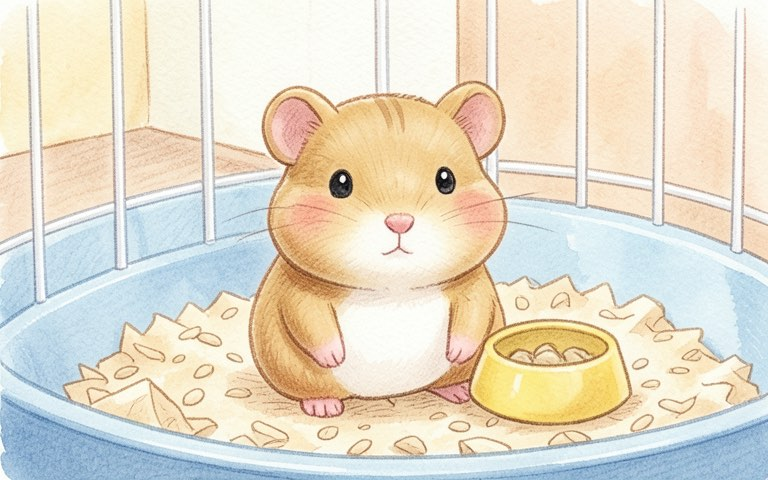
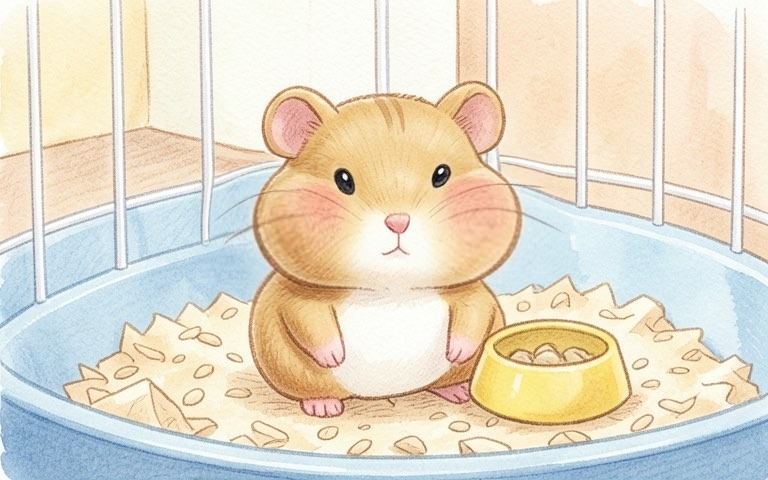
My Hamster: puffier cheeks on p14, sleepy hamster inside the cage on p18

Changed region(s): [[0.5, 0.3125, 0.75, 0.6562], [0.25, 0.3125, 0.4688, 0.6562]]

diff --git a/server/scripts/pregen-img.js b/server/scripts/pregen-img.js
@@ -598,7 +598,7 @@ const SCENES = {
   '45-0': ['', "one seagull nest made of twigs and dry grass with three speckled eggs inside, on a rock by the sea, waves in the background, no bird"], '45-1': ['', 'one cute smiling orange octopus on the wet sand by the water'], '45-3': ['', "one small red crab running fast sideways across the sand with little sand puffs and motion lines behind it, only one crab"], '45-4': ['', 'one big smooth gray rock on the sand'], '45-5': ['', 'one big pretty spiral seashell on the sand'], '45-8': ['', "one white and blue volleyball lying on the sand in front of a beach volleyball net"], '45-9': ['', 'one big blue ocean wave curling toward the beach'], '45-10': ['', 'one plain wooden box on the sand, nothing written on it'], '45-11': ['', 'one white sailing yacht with a big sail on the blue sea'], '45-12': ['', 'one long zigzag line drawn with a stick in the wet sand'],
   '45-13': ['5-year-old|dad', 'the boy and his dad walk hand in hand toward the sea'], '45-14': ['5-year-old', 'the boy kneels on the sand and holds up one big spiral seashell in both hands'], '45-15': ['5-year-old', 'the boy stands at the edge of the water and spreads his arms wide with joy, seen from the front'],
   '46-0': ['Tim', 'Tim holds one big round bread bun in both hands'], '46-1': ['Tim', 'Tim holds up one small glass jar of red jam'], '46-2': ['Tim', 'Tim spreads red jam on the big round bun with a spoon at a small table'], '46-3': ['Tim', 'Tim sits on the soft green rug holding the bun with jam'], '46-4': ['Tim|dog', "the light brown dog runs fast across the room toward Tim, who sits on the green rug holding one round bread bun with red jam on top in his hand"], '46-5': ['dog', 'the light brown puppy stands on the floor, its short fur wet and shiny with water drops dripping off, a small puddle under it'], '46-6': ['dog', 'the wet light brown puppy wags its tail fast, happy, with motion lines by the tail and little water drops flying'], '46-7': ['Tim|dog', "the dog looks up at the bun in Tim's hand with its tongue out, Tim holds one round bread bun with shiny red jam on top high above his head"], '46-8': ['Tim', "Tim runs across the room holding one round bread bun with shiny red jam on top high in one hand"], '46-9': ['Tim|dog', "the dog runs after Tim across the room, Tim runs ahead holding one round bread bun with shiny red jam on top in one hand"], '46-10': ['Tim|jam on top', "Tim trips on the edge of the green rug and falls forward onto his hands and knees, surprised, the round bread bun with red jam on top flies out of his hand"], '46-11': ['Tim|jam on top', "Tim is falling forward onto the rug and reaches out with both hands to catch the round bread bun with red jam on top, but he misses: the bun flies away past his fingertips into the air, out of his reach, he looks surprised"], '46-12': ['Tim|dog', "seen from the side, the light brown dog stands on its four legs on the rug and looks back in surprise, one small round bread bun is stuck upside down on the middle of the dog's back, between its neck and its tail, with red jam squishing out, nothing in the dog's mouth, nothing on its head, Tim sits on the rug behind it with his mouth open in an oh-no face and his hands on his cheeks, only one dog, only one boy"], '46-13': ['dog|jam on top', "seen from the side, the light brown dog stands on its four legs and turns its head to look back at the round bread bun with red jam stuck on its back, red jam smeared on its fur, the dog looks puzzled with its ears down, only one dog in the whole picture"], '46-14': ['Tim', 'Tim sits on the rug and grins a big happy grin'], '46-15': ['Tim|dog', 'Tim kneels on the rug and hugs the small wet light brown dog with jam on its back, both smile, only one boy and one dog'],
-  '47-0': ["6-year-old girl|Peanut|the bedroom:", "the girl stands alone in her bedroom and holds out her two open hands toward us, exactly one tiny golden brown hamster sits on her palms, she smiles proudly. Only one child, exactly one hamster in the whole picture"], '47-1': ["Peanut|the bedroom:", "seen from a little far away, Peanut the tiny golden brown hamster sits on the white desk next to one long yellow pencil, the pencil is twice as long as the hamster, a small paper tag shaped like a peanut lies beside him. No people, only one hamster"], '47-2': ["Peanut", "a close look: Peanut the tiny golden brown hamster sits on the white desk next to one long yellow pencil that is twice as long as his whole body; he holds one small black and white striped sunflower seed in his pink paws and nibbles it. No flowers. No people, only one hamster"], '47-3': ["6-year-old girl|Peanut", "the girl smiles and holds the tiny hamster on her open palm close to her face, his two small round pink-lined ears are easy to see. Only one child, only one hamster"], '47-4': ["Peanut", "a very close look at Peanut the tiny golden brown hamster's face, filling the picture: his two shiny round black bead eyes sparkle with little white highlights, pink nose and white whiskers, soft fur. Nothing else in the picture. Only one hamster"], '47-5': ["cage:|Peanut", "the dome-topped white wire hamster cage with a light blue plastic base stands on the white desk; everything is inside the cage on its blue floor: the tiny hamster, the small red plastic running wheel, the tiny wooden hut with a round door, the water bottle on the bars and the small yellow food bowl; nothing at all next to the cage, only one hamster"], '47-6': ["6-year-old girl|cage:|the bedroom:", "exactly one girl stands next to the white desk and spreads her arms wide beside the dome-topped white wire hamster cage with a light blue base to show how big it is; inside the cage are the small red running wheel, the tiny wooden hut and the tiny hamster. She is the only person in the whole picture, nobody else"], '47-7': ["cage:", "a close look into the dome-topped white wire hamster cage through its white bars: on its light blue floor the small red plastic running wheel stands empty, and the tiny wooden hut with a round door sits behind it. No hamster in this picture, no people"], '47-8': ["Peanut", "a big close-up taken from inside the hamster cage, low at the hamster's eye level on the light blue plastic cage floor covered with pale wood shavings; the hamster is big in the picture; only a few thin white wire bars show softly far behind him, there are no bars in front of him and we cannot see the outside of the cage: the red plastic running wheel, an open round wheel twice as tall as the hamster, stands upright on its stand; the tiny hamster is inside the wheel, running on the inner curved track with his little feet, the wheel turning under him, small curved motion lines along its rim. Only one hamster, only one wheel"], '47-9': ["Peanut", "a big close-up taken from inside the hamster cage, low at the hamster's eye level on the light blue plastic cage floor covered with pale wood shavings; the hamster is big in the picture; only a few thin white wire bars show softly far behind him, there are no bars in front of him and we cannot see the outside of the cage: the tiny hamster runs very fast inside the red running wheel, an open round wheel twice as tall as him; the wheel spins fast with blurred spokes and curved motion lines all around its rim, a little sweat drop flies off his head. Only one hamster, only one wheel"], '47-10': ["Peanut", "a big close-up taken from inside the hamster cage, low at the hamster's eye level on the light blue plastic cage floor covered with pale wood shavings; the hamster is big in the picture; only a few thin white wire bars show softly far behind him, there are no bars in front of him and we cannot see the outside of the cage: the tiny hamster sits next to a small empty yellow food bowl and looks into it with a sad hungry face, his paws on his round tummy. Only one hamster"], '47-11': ["Peanut", "a big close-up taken from inside the hamster cage, low at the hamster's eye level on the light blue plastic cage floor covered with pale wood shavings; the hamster is big in the picture; only a few thin white wire bars show softly far behind him, there are no bars in front of him and we cannot see the outside of the cage: the tiny hamster sits next to a small yellow food bowl full of black and white striped sunflower seeds and nibbles one striped seed held in his front paws, happy. No flowers. Only one hamster"], '47-12': ["Peanut", "a big close-up taken from inside the hamster cage, low at the hamster's eye level on the light blue plastic cage floor covered with pale wood shavings; the hamster is big in the picture; only a few thin white wire bars show softly far behind him, there are no bars in front of him and we cannot see the outside of the cage: the tiny hamster sits by a small yellow food bowl of striped sunflower seeds and stuffs a seed into his cheek with both front paws, one cheek already bulging. Only one hamster"], '47-13': ["Peanut", "a big close-up taken from inside the hamster cage, low at the hamster's eye level on the light blue plastic cage floor covered with pale wood shavings; the hamster is big in the picture; only a few thin white wire bars show softly far behind him, there are no bars in front of him and we cannot see the outside of the cage: the tiny hamster sits facing us with very fat puffy round cheeks full of seeds, wider than his head, a small yellow food bowl beside him. Only one hamster"], '47-14': ["Peanut", "a big close-up taken from inside the hamster cage, low at the hamster's eye level on the light blue plastic cage floor covered with pale wood shavings; the hamster is big in the picture; only a few thin white wire bars show softly far behind him, there are no bars in front of him and we cannot see the outside of the cage: the tiny hamster with very big puffy round cheeks stands up on his back legs and does a funny little dance with his front paws up, small happy music notes around him. Only one hamster"], '47-15': ["6-year-old girl|Peanut|the bedroom:", "the girl sits on her bed and gently holds the tiny hamster in her two cupped hands in front of her, smiling down at him. Only one child, only one hamster"], '47-16': ["6-year-old girl|Peanut", "the girl holds the tiny hamster in her cupped hands close to her cheek, her eyes closed, happy, the hamster is smaller than her hand, soft warm glow around them. Only one child, only one hamster"], '47-17': ["cage:|Peanut", "inside the dome-topped white wire hamster cage, the tiny hamster sits next to the small red wheel and yawns a big yawn with half-closed sleepy eyes, the room is getting dark. Only one hamster"], '47-18': ["cage:|Peanut", "a close look through the white bars into the cage: the tiny wooden hut with a round door sits on the light blue floor, and the tiny hamster sleeps curled up just inside its round door, eyes closed, a little Z above him; the small red running wheel stands next to the hut. Only one hamster"], '47-19': ["6-year-old girl|cage:|the bedroom:", "at night in the bedroom with moonlight from the window and a small lamp on, the girl in lavender pajamas waves good night to the dome-topped white wire hamster cage on the white desk, smiling sleepily. Only one child"],
+  '47-0': ["6-year-old girl|Peanut|the bedroom:", "the girl stands alone in her bedroom and holds out her two open hands toward us, exactly one tiny golden brown hamster sits on her palms, she smiles proudly. Only one child, exactly one hamster in the whole picture"], '47-1': ["Peanut|the bedroom:", "seen from a little far away, Peanut the tiny golden brown hamster sits on the white desk next to one long yellow pencil, the pencil is twice as long as the hamster, a small paper tag shaped like a peanut lies beside him. No people, only one hamster"], '47-2': ["Peanut", "a close look: Peanut the tiny golden brown hamster sits on the white desk next to one long yellow pencil that is twice as long as his whole body; he holds one small black and white striped sunflower seed in his pink paws and nibbles it. No flowers. No people, only one hamster"], '47-3': ["6-year-old girl|Peanut", "the girl smiles and holds the tiny hamster on her open palm close to her face, his two small round pink-lined ears are easy to see. Only one child, only one hamster"], '47-4': ["Peanut", "a very close look at Peanut the tiny golden brown hamster's face, filling the picture: his two shiny round black bead eyes sparkle with little white highlights, pink nose and white whiskers, soft fur. Nothing else in the picture. Only one hamster"], '47-5': ["cage:|Peanut", "the dome-topped white wire hamster cage with a light blue plastic base stands on the white desk; everything is inside the cage on its blue floor: the tiny hamster, the small red plastic running wheel, the tiny wooden hut with a round door, the water bottle on the bars and the small yellow food bowl; nothing at all next to the cage, only one hamster"], '47-6': ["6-year-old girl|cage:|the bedroom:", "exactly one girl stands next to the white desk and spreads her arms wide beside the dome-topped white wire hamster cage with a light blue base to show how big it is; inside the cage are the small red running wheel, the tiny wooden hut and the tiny hamster. She is the only person in the whole picture, nobody else"], '47-7': ["cage:", "a close look into the dome-topped white wire hamster cage through its white bars: on its light blue floor the small red plastic running wheel stands empty, and the tiny wooden hut with a round door sits behind it. No hamster in this picture, no people"], '47-8': ["Peanut", "a big close-up taken from inside the hamster cage, low at the hamster's eye level on the light blue plastic cage floor covered with pale wood shavings; the hamster is big in the picture; only a few thin white wire bars show softly far behind him, there are no bars in front of him and we cannot see the outside of the cage: the red plastic running wheel, an open round wheel twice as tall as the hamster, stands upright on its stand; the tiny hamster is inside the wheel, running on the inner curved track with his little feet, the wheel turning under him, small curved motion lines along its rim. Only one hamster, only one wheel"], '47-9': ["Peanut", "a big close-up taken from inside the hamster cage, low at the hamster's eye level on the light blue plastic cage floor covered with pale wood shavings; the hamster is big in the picture; only a few thin white wire bars show softly far behind him, there are no bars in front of him and we cannot see the outside of the cage: the tiny hamster runs very fast inside the red running wheel, an open round wheel twice as tall as him; the wheel spins fast with blurred spokes and curved motion lines all around its rim, a little sweat drop flies off his head. Only one hamster, only one wheel"], '47-10': ["Peanut", "a big close-up taken from inside the hamster cage, low at the hamster's eye level on the light blue plastic cage floor covered with pale wood shavings; the hamster is big in the picture; only a few thin white wire bars show softly far behind him, there are no bars in front of him and we cannot see the outside of the cage: the tiny hamster sits next to a small empty yellow food bowl and looks into it with a sad hungry face, his paws on his round tummy. Only one hamster"], '47-11': ["Peanut", "a big close-up taken from inside the hamster cage, low at the hamster's eye level on the light blue plastic cage floor covered with pale wood shavings; the hamster is big in the picture; only a few thin white wire bars show softly far behind him, there are no bars in front of him and we cannot see the outside of the cage: the tiny hamster sits next to a small yellow food bowl full of black and white striped sunflower seeds and nibbles one striped seed held in his front paws, happy. No flowers. Only one hamster"], '47-12': ["Peanut", "a big close-up taken from inside the hamster cage, low at the hamster's eye level on the light blue plastic cage floor covered with pale wood shavings; the hamster is big in the picture; only a few thin white wire bars show softly far behind him, there are no bars in front of him and we cannot see the outside of the cage: the tiny hamster sits by a small yellow food bowl of striped sunflower seeds and stuffs a seed into his cheek with both front paws, one cheek already bulging. Only one hamster"], '47-13': ["Peanut", "a big close-up taken from inside the hamster cage, low at the hamster's eye level on the light blue plastic cage floor covered with pale wood shavings; the hamster is big in the picture; only a few thin white wire bars show softly far behind him, there are no bars in front of him and we cannot see the outside of the cage: the tiny hamster sits facing us with very fat puffy round cheeks full of seeds, wider than his head, a small yellow food bowl beside him. Only one hamster"], '47-14': ["Peanut", "a big close-up taken from inside the hamster cage, low at the hamster's eye level on the light blue plastic cage floor covered with pale wood shavings; the hamster is big in the picture; only a few thin white wire bars show softly far behind him, there are no bars in front of him and we cannot see the outside of the cage: the tiny hamster with very big puffy round cheeks stands up on his back legs and does a funny little dance with his front paws up, small happy music notes around him. Only one hamster"], '47-15': ["6-year-old girl|Peanut|the bedroom:", "the girl sits on her bed and gently holds the tiny hamster in her two cupped hands in front of her, smiling down at him. Only one child, only one hamster"], '47-16': ["6-year-old girl|Peanut", "the girl holds the tiny hamster in her cupped hands close to her cheek, her eyes closed, happy, the hamster is smaller than her hand, soft warm glow around them. Only one child, only one hamster"], '47-17': ["Peanut","a big close-up taken from inside the hamster cage, low at the hamster's eye level on the light blue plastic cage floor covered with pale wood shavings; the hamster is big in the picture; only a few thin white wire bars show softly far behind him, there are no bars in front of him and we cannot see the outside of the cage: the tiny hamster sits on the wood shavings looking very sleepy, his eyes half closed and drooping, giving a big yawn with his little mouth wide open and one front paw rubbing his eye, his body slumping a little; the small wooden hut with a round door is right behind him; soft warm evening light. Only one hamster"], '47-18': ["cage:|Peanut", "a close look through the white bars into the cage: the tiny wooden hut with a round door sits on the light blue floor, and the tiny hamster sleeps curled up just inside its round door, eyes closed, a little Z above him; the small red running wheel stands next to the hut. Only one hamster"], '47-19': ["6-year-old girl|cage:|the bedroom:", "at night in the bedroom with moonlight from the window and a small lamp on, the girl in lavender pajamas waves good night to the dome-topped white wire hamster cage on the white desk, smiling sleepily. Only one child"],
   '48-0': ["7-year-old boy|the bedroom:","a wide view of the whole bedroom from the doorway, showing the mess in the room: a brown teddy bear, six colorful wooden blocks, a yellow toy truck and a green toy dinosaur lie on the floor in the middle, a pile of five picture books lies on the blue blanket of the bed, one red sock and one blue sock lie under the desk, the toy box and the bookshelf are still empty. The boy stands in the middle among the toys and scratches his head, embarrassed. Only one child"], '48-1': ["the bedroom:","a low close look at the middle of the bedroom floor: a brown teddy bear, six colorful wooden blocks, a yellow toy truck and a green toy dinosaur scattered on the light wooden floor; behind them the white open-top toy box with car pictures stands empty in front of the bookshelf. No people"], '48-2': ["the bedroom:","a close look at the bed along the left wall: a messy pile of five colorful picture books lies on the blue blanket, two of them open; the empty white bookshelf is far in the background. No people"], '48-3': ["the bedroom:","a low close look at the wooden desk under the window and its red-cushioned chair: on the floor right under the desk, between the four desk legs, lie one crumpled red sock and one crumpled blue sock, in the shadow of the desk. Only these two socks, nothing else on the floor. No people"], '48-4': ["7-year-old boy|his mom|the bedroom:","the wooden door on the right is open and his tall mom stands in the doorway with her hands on her hips, frowning at the mess; the mess in the room: a brown teddy bear, six colorful wooden blocks, a yellow toy truck and a green toy dinosaur lie on the floor in the middle, a pile of five picture books lies on the blue blanket of the bed, one red sock and one blue sock lie under the desk, the toy box and the bookshelf are still empty. The boy stands among the toys on the floor and looks down. Only two people, only one mom"], '48-5': ["7-year-old boy|his mom|the bedroom:","his tall mom stands just inside the open door and points with one finger at the toys on the floor while she talks; the boy stands in front of her among the toys and looks up, listening. The toys still lie on the floor and the books are still on the bed. Only two people, only one mom"], '48-6': ["7-year-old boy|his mom|the bedroom:","the boy smiles, nods and gives a thumbs-up to his mom, who smiles back from the open doorway; the toys still lie on the floor around him and the five books are still on the bed. Only two people, only one mom"], '48-7': ["7-year-old boy|the bedroom:","the boy bends down in the middle of the floor and picks up the brown teddy bear and two wooden blocks with both hands; the yellow toy truck, the green toy dinosaur and the other blocks still lie on the floor, the books are still on the bed. Only one child"], '48-8': ["7-year-old boy|the bedroom:","the one white open-top toy box with car pictures stays in its place on the floor in front of the low white bookshelf on the right; the boy stands right next to it and drops the teddy bear, the blocks, the yellow truck and the green dinosaur into it, the box is full of toys; the middle of the floor is clear now, the five books are still on the bed. Only one toy box in the room. Only one child"], '48-9': ["7-year-old boy|the bedroom:","the boy stands at the low white bookshelf on the right and puts the picture books on its shelf in a neat row, three books already stand on the shelf and two are in his hands; the bed is empty of books now, the toy box is full of toys, the floor is clear. Only one child"], '48-10': ["7-year-old boy|the bedroom:","the boy kneels on the floor in front of the desk below the window, reaches under the desk and holds up one red sock he just found; the blue sock still lies under the desk. The rest of the room is tidy. Only one child"], '48-11': ["7-year-old boy|the bedroom:","the boy still kneels in front of the desk, holding the red sock in one hand, and pulls out the blue sock from under the desk with his other hand. Only one child"], '48-12': ["7-year-old boy|the bedroom:","one single boy sits alone on the floor by the desk and holds a red sock in one hand and a blue sock in the other, side by side in front of his face, looking at them with a surprised face because they do not match. Only one boy in the whole picture, he appears only once, nobody else"], '48-13': ["7-year-old boy|toy car:|the bedroom:","the boy lies on his tummy on the floor beside the bed with the blue blanket and stretches one arm into the dark space under the bed, where the small red toy car is. He is the only person in the picture"], '48-14': ["toy car:","a low view at floor level into the dark space under the wooden bed: the small red toy car sits in the shadow under the bed, the edge of the blue blanket hangs down above it. Nothing else under the bed. No people"], '48-15': ["7-year-old boy|the bedroom:|toy car:","in the tidy bedroom the boy jumps for joy with both feet off the floor, holding the small red toy car up high in one hand; the toy box behind him is full of toys and the books stand on the bookshelf. Only one child"], '48-16': ["the bedroom:","a wide view of the whole bedroom from the doorway, now neat and clean: the bed is made with the blue blanket smooth, five books stand in a row on the top shelf of the low white bookshelf, all the toys are inside the one white toy box in front of the bookshelf, the desk is tidy with the red and blue socks folded on it, and the floor is completely empty and shiny, nothing at all on the floor. No people"], '48-17': ["7-year-old boy|his mom|the bedroom:","his tall mom stands in the open doorway on the right of the clean bedroom, smiling widely with her hands together; the boy stands in the middle of the clean floor and smiles back at her. Exactly two people, only one mom"], '48-18': ["7-year-old boy|his mom|the bedroom:","in the middle of the clean bedroom his tall mom kneels down and hugs the boy warmly, both smile with closed eyes; the made bed, the full toy box and the books on the shelf are behind them. Only two people, only one mom"], '48-19': ["7-year-old boy|the bedroom:","the boy lies on his back on top of his neatly made bed with the blue blanket, his arms behind his head, smiling happily; the clean room is around him: books on the shelf, toys in the toy box, a clear floor. He is on the bed. Only one child"],
   '49-0': ['Amy|Ben', "on the sunny sidewalk, Ben waves at Amy, who is bending over and looking around in the grass of the front yard. Only two children, no ball in sight"], '49-1': ['Amy|Ben', "Amy kneels and looks under a round green bush in the yard with a worried face, Ben watches her. Only two children, no ball in sight"], '49-2': ['Amy|Ben|ball:', "Ben holds up one black and white soccer ball he found by the hedge and asks Amy, she turns to him with wide eyes. Only two children, only one ball"], '49-3': ['Amy|Ben|ball:', "Amy takes the black and white soccer ball from Ben with both hands and smiles happily, saying thank you. Only two children, only one ball"], '49-4': ['Amy|Ben|ball:', "Ben asks Amy a question with a curious smile, Amy holds the soccer ball under her arm. Only two children, only one ball"], '49-5': ['Amy|ball:', "Amy hugs the black and white soccer ball to her chest with a big smile, little hearts around her. Only one child, only one ball"], '49-6': ['Amy|Ben|ball:', "Amy bounces the soccer ball on her knee and asks Ben with a grin, Ben watches with empty hands. Only two children, only one ball"], '49-7': ['Amy|Ben|ball:', "Ben smiles, nods and looks around with his hands open, asking where, Amy holds the soccer ball. Only two children, only one ball"], '49-8': ['Amy|Ben|ball:', "Amy points down the sidewalk toward the park and they start to walk together, Amy carries the ball under her arm. Only two children, only one ball"], '49-9': ['Amy|Ben|the park:', "in the green park, Ben asks Amy a question with a curious face, Amy holds the soccer ball. No watch on Ben's wrist. Only two children, only one ball"], '49-10': ['Amy|Ben|the park:', "Amy points up at the round white clock on the tall green post, its two hands show three o'clock, no numbers on it, Ben looks up too. Only two children"], '49-11': ['Amy|Ben|the park:', "on the lawn, Amy looks around with her hand above her eyes asking who has the ball, Ben stands with the black and white soccer ball at his feet. Only two children, only one ball"], '49-12': ['Amy|Ben|the park:', "Ben raises one hand, the black and white soccer ball at his feet, Amy waves both arms at him from across the grass, asking him to kick it to her. Only two children, only one ball"], '49-13': ['Amy|Ben|the park:', "Ben kicks the soccer ball across the grass toward Amy, the ball rolls fast with motion lines, Amy gets ready. Only two children, only one ball"], '49-14': ['Amy|Ben|the park:', "Amy kicks the ball into the small white soccer goal, the net bulges, Ben jumps and cheers behind her. Only two children, only one ball"], '49-15': ['Amy|Ben|the park:', "Amy and Ben give each other a high five on the lawn, both grinning. Only two children"], '49-16': ['Amy|Ben|the park:', "Ben looks at Amy, who is breathing hard with her hands on her knees, sweat drops on her face. Only two children"], '49-17': ['Amy|Ben|the park:', "Amy and Ben sit on the grass under the tall tree, tired and smiling, Amy wipes the sweat off her forehead and fans her face. Only two children"], '49-18': ['Amy|Ben|the park:', "Ben hands Amy one blue water bottle, Amy takes it with a thankful smile, Ben holds his own green water bottle. Only two children"], '49-19': ['Amy|Ben|the park:', "in the low orange evening sun, Amy and Ben wave goodbye to each other at the edge of the park, Amy holds the black and white soccer ball. Only two children, only one ball"],
   '50-0': ['7-year-old girl|the baker|the bakery:', "the girl walks in through the glass door of the bakery, the baker behind the glass counter smiles and greets her. Only two people"], '50-1': ['7-year-old girl|the baker|the bakery:', "the girl stands in front of the glass counter and points at the bread on the wooden shelves, the baker listens. Only two people"], '50-2': ['7-year-old girl|the baker|the bakery:', "the baker behind the counter holds out both hands toward the shelves of bread, asking with a smile, the girl looks. Only two people"], '50-3': ['7-year-old girl|the baker|the bakery:', "the girl presses one finger gently into a soft round loaf on the counter, it squishes softly, she smiles. Only two people"], '50-4': ['7-year-old girl|the baker|the bakery:', "the baker holds out one round soft golden loaf of bread to the girl over the counter. Only two people"], '50-5': ['7-year-old girl|the baker|the bakery:', "the girl looks at the round loaf in the baker's hands and asks with one finger on her chin. Only two people"], '50-6': ['the baker|the bakery:', "the tall baker smiles and holds up one hand with two fingers up, the round loaf on the counter. Only one person, no children"], '50-7': ['7-year-old girl|the baker|the bakery:', "the girl stands on her toes and looks into the glass counter, the baker looks at her. Only two people"], '50-8': ['7-year-old girl|the baker|the bakery:', "the baker points to a tray of round cookies on the small cookie table at the far end of the bakery, the girl turns to look. Only two people"], '50-9': ['7-year-old girl|the bakery:', "the girl leans close to the tray of round golden cookies with chocolate chips and looks at them with wide eyes. Only one person"], '50-10': ['the baker|the bakery:', "the tall baker holds the tray of round cookies and smiles with his eyes closed, a little sparkle of sweetness. Only one person, no children"], '50-11': ['7-year-old girl|the baker|the bakery:', "the girl points at one cookie on the tray and asks the baker politely. Only two people"], '50-12': ['7-year-old girl|the baker|the bakery:', "the baker puts one round cookie on the counter on a small napkin, the girl reaches for it. Only two people"], '50-13': ['7-year-old girl|the bakery:', "the girl bites one round chocolate chip cookie with her eyes closed, very happy, crumbs on her chin. Only one person"], '50-14': ['7-year-old girl|the baker|the bakery:', "the girl holds up four fingers, the baker puts round cookies into a small plain brown paper bag. Only two people"], '50-15': ['7-year-old girl|the baker|the bakery:', "the baker puts the small plain paper bag on the counter and asks, the girl picks it up. Only two people"], '50-16': ['7-year-old girl|the bakery:', "the girl hugs the plain paper bag of cookies to her chest and smiles warmly, a small red heart floats above her. Only one person"], '50-17': ['7-year-old girl|the baker|the bakery:', "the girl talks happily with the paper bag in her arms, a small thought bubble shows her mom and a birthday cake, the baker listens. Only two people"], '50-18': ['7-year-old girl|the baker|the bakery:', "the tall baker claps his hands and smiles widely behind the counter, the girl smiles back. Only two people, only one baker"], '50-19': ['7-year-old girl|the baker|the bakery:', "the girl waves goodbye at the glass bakery door, holding her paper bag, the baker waves back from the counter. Only two people"],
